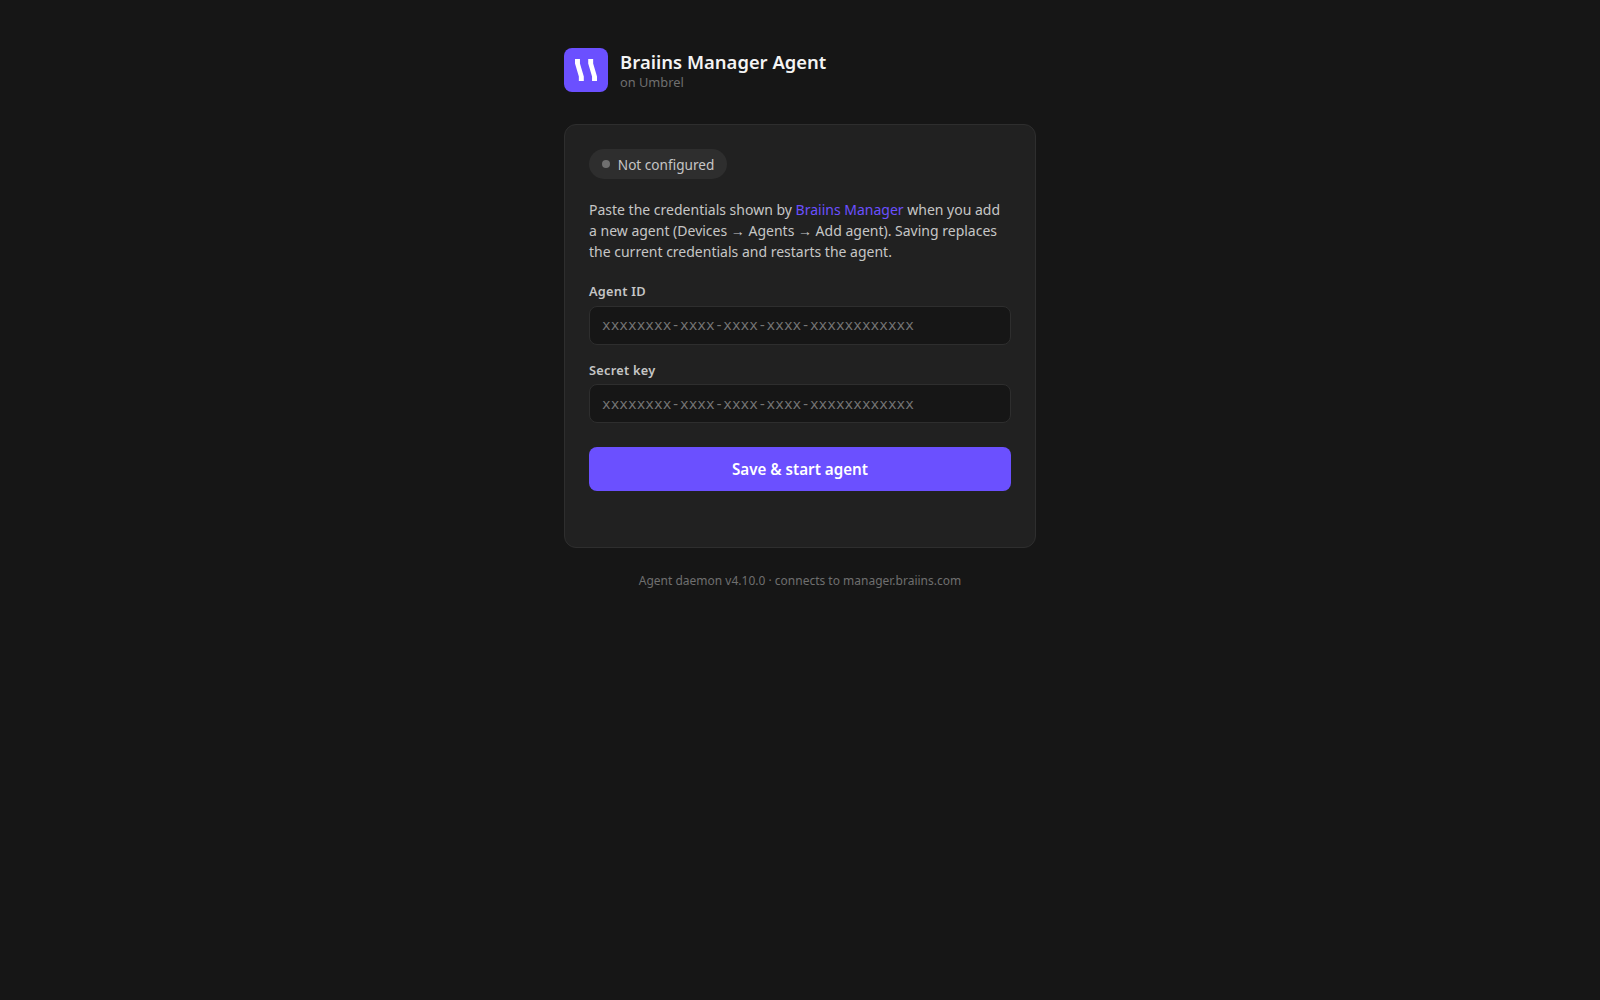
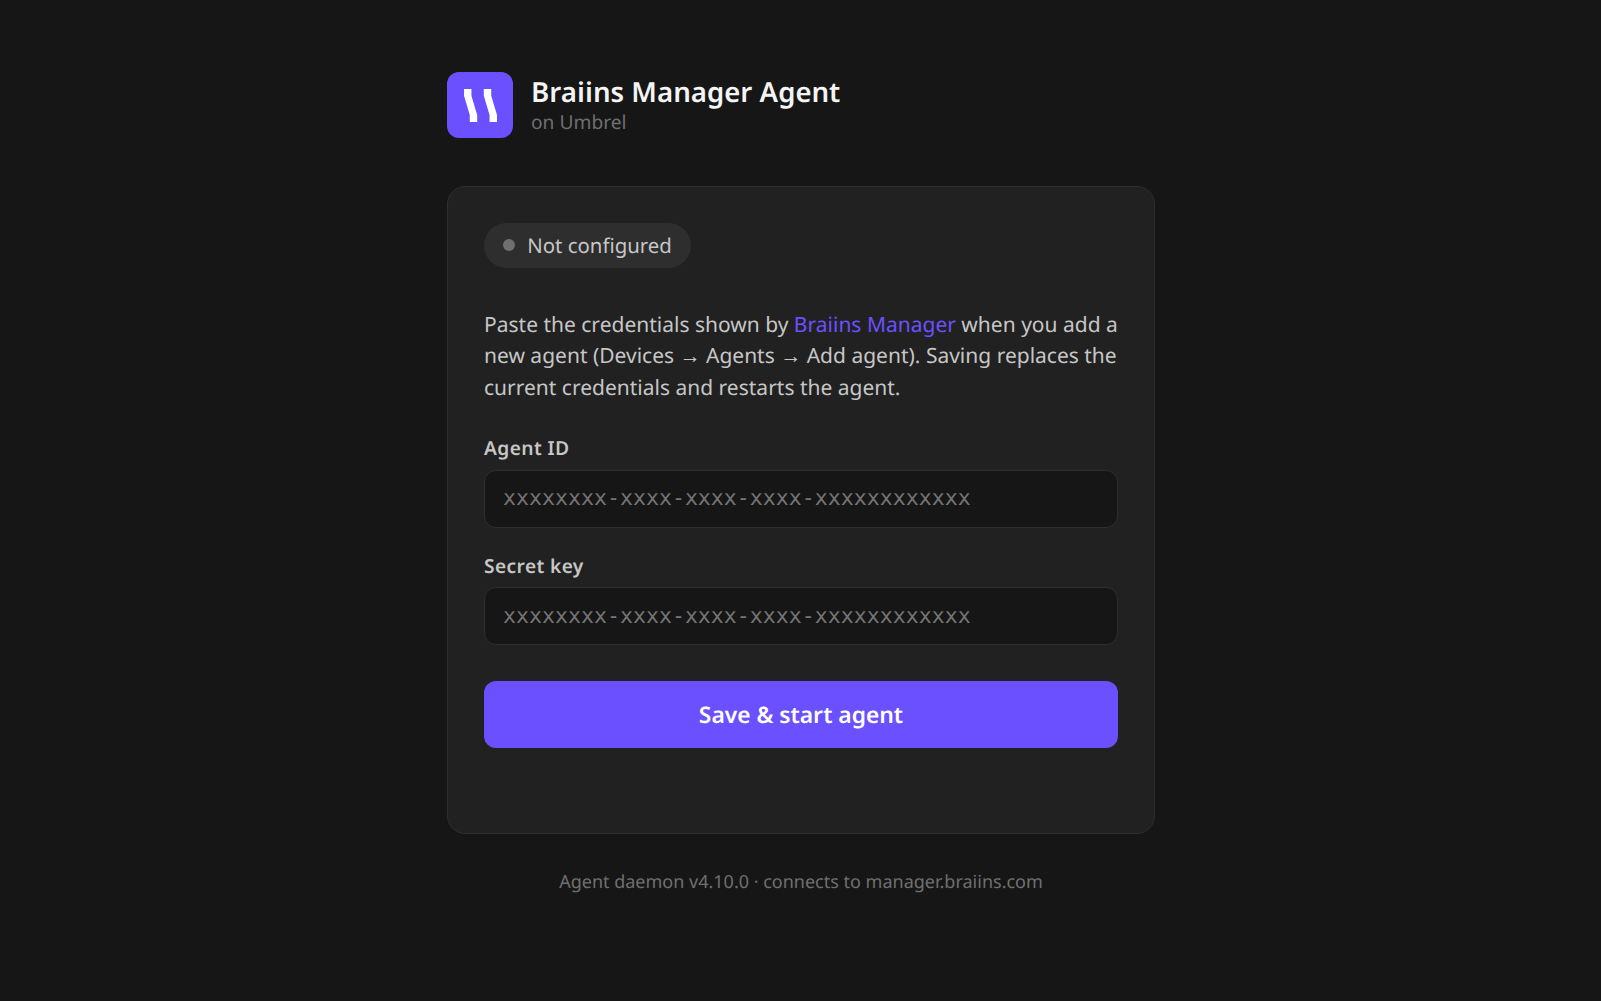
4.10.0-build-5: live miner count + telemetry status in UI, larger gallery images

diff --git a/image/webui.py b/image/webui.py
@@ -75,6 +75,9 @@ button { margin-top: 1.5rem; width: 100%; padding: .75rem; font-size: .95rem; fo
   font-family: inherit; border: 0; border-radius: 8px;
   background: var(--violet-60); color: #fff; cursor: pointer; }
 button:hover { background: var(--violet-70); }
+#stats { font-size: .85rem; color: var(--gray-30); margin: -.5rem 0 1rem; line-height: 1.6; }
+#stats .num { color: var(--gray-10); font-weight: 600; }
+#stats .err { color: var(--orange-50); display: block; font-size: .8rem; }
 #msg { font-size: .85rem; margin: 1rem 0 0; min-height: 1.2em; }
 #msg.ok { color: var(--green-50); }
 #msg.err { color: var(--red-60); }
@@ -86,6 +89,7 @@ footer { margin-top: 1.5rem; font-size: .75rem; color: var(--gray-60); text-alig
 </header>
 <div class="card">
   <span id="pill"><span class="dot"></span><span id="pill-text">Checking&hellip;</span></span>
+  <div id="stats"></div>
   <p class="help">Paste the credentials shown by <a href="https://manager.braiins.com" target="_blank" rel="noopener">Braiins Manager</a> when you add a new agent (Devices &rarr; Agents &rarr; Add agent). Saving replaces the current credentials and restarts the agent.</p>
   <form id="form">
     <label for="agent_id">Agent ID</label>
@@ -100,7 +104,29 @@ footer { margin-top: 1.5rem; font-size: .75rem; color: var(--gray-60); text-alig
 <script>
 const pill = document.getElementById('pill');
 const pillText = document.getElementById('pill-text');
+const stats = document.getElementById('stats');
 const msg = document.getElementById('msg');
+
+function ago(iso) {
+  const s = Math.max(0, (Date.now() - Date.parse(iso)) / 1000);
+  if (s < 90) return 'just now';
+  if (s < 3600) return Math.round(s / 60) + ' min ago';
+  return Math.round(s / 3600) + ' h ago';
+}
+
+function renderStats(s) {
+  if (!s.configured || !s.running) { stats.innerHTML = ''; return; }
+  const parts = [];
+  if (s.miners !== null) parts.push(`<span class="num">${s.miners}</span> miner${s.miners === 1 ? '' : 's'} found`);
+  if (s.last_sent) parts.push(`telemetry sent <span class="num">${ago(s.last_sent)}</span>`);
+  let html = parts.join(' &middot; ');
+  // Surface errors only if nothing was successfully sent since
+  if (s.last_error && (!s.last_sent || Date.parse(s.last_error.ts) > Date.parse(s.last_sent))) {
+    const msg = s.last_error.msg.replace(/&/g, '&amp;').replace(/</g, '&lt;');
+    html += `<span class="err">⚠ ${msg}</span>`;
+  }
+  stats.innerHTML = html;
+}
 
 async function refresh() {
   try {
@@ -108,6 +134,7 @@ async function refresh() {
     if (!s.configured) { pill.className = ''; pillText.textContent = 'Not configured'; }
     else if (s.running) { pill.className = 'running'; pillText.textContent = 'Agent running'; }
     else { pill.className = 'starting'; pillText.textContent = 'Agent starting…'; }
+    renderStats(s);
   } catch (e) { pill.className = 'error'; pillText.textContent = 'UI unreachable'; }
 }
 refresh();
@@ -156,6 +183,38 @@ def daemon_running():
     return subprocess.run(["pidof", "bma-daemon"], capture_output=True).returncode == 0
 
 
+LOG = "/var/log/bma.log"
+TS_RE = re.compile(r"^(\d{4}-\d{2}-\d{2}T\d{2}:\d{2}:\d{2})")
+MINERS_RE = re.compile(r"(\d+) miners polled")
+SENT_RE = re.compile(r"batch sent items=(\d+)")
+ERR_RE = re.compile(r" (?:WARN|ERROR)\s+(?:[\w:]+: )?(.*)")
+
+
+def log_stats():
+    """Parse the tail of the daemon log for miner count / telemetry activity."""
+    stats = {"miners": None, "last_sent": None, "last_error": None}
+    try:
+        with open(LOG, "rb") as f:
+            f.seek(0, 2)
+            f.seek(max(0, f.tell() - 262144))
+            tail = f.read().decode(errors="replace")
+    except OSError:
+        return stats
+    for line in tail.splitlines():
+        ts = TS_RE.match(line)
+        ts = ts.group(1) + "Z" if ts else None
+        m = MINERS_RE.search(line)
+        if m:
+            stats["miners"] = int(m.group(1))
+        m = SENT_RE.search(line)
+        if m and ts:
+            stats["last_sent"] = ts
+        m = ERR_RE.search(line)
+        if m and ts:
+            stats["last_error"] = {"ts": ts, "msg": m.group(1)[:120]}
+    return stats
+
+
 class Handler(BaseHTTPRequestHandler):
     def _send(self, body, ctype):
         self.send_response(200)
@@ -167,7 +226,7 @@ class Handler(BaseHTTPRequestHandler):
 
     def do_GET(self):
         if self.path.split("?")[0].endswith("/status") or self.path.split("?")[0] == "/status":
-            state = {"configured": bool(current_agent_id()), "running": daemon_running()}
+            state = {"configured": bool(current_agent_id()), "running": daemon_running(), **log_stats()}
             self._send(json.dumps(state).encode(), "application/json")
             return
         global VERSION